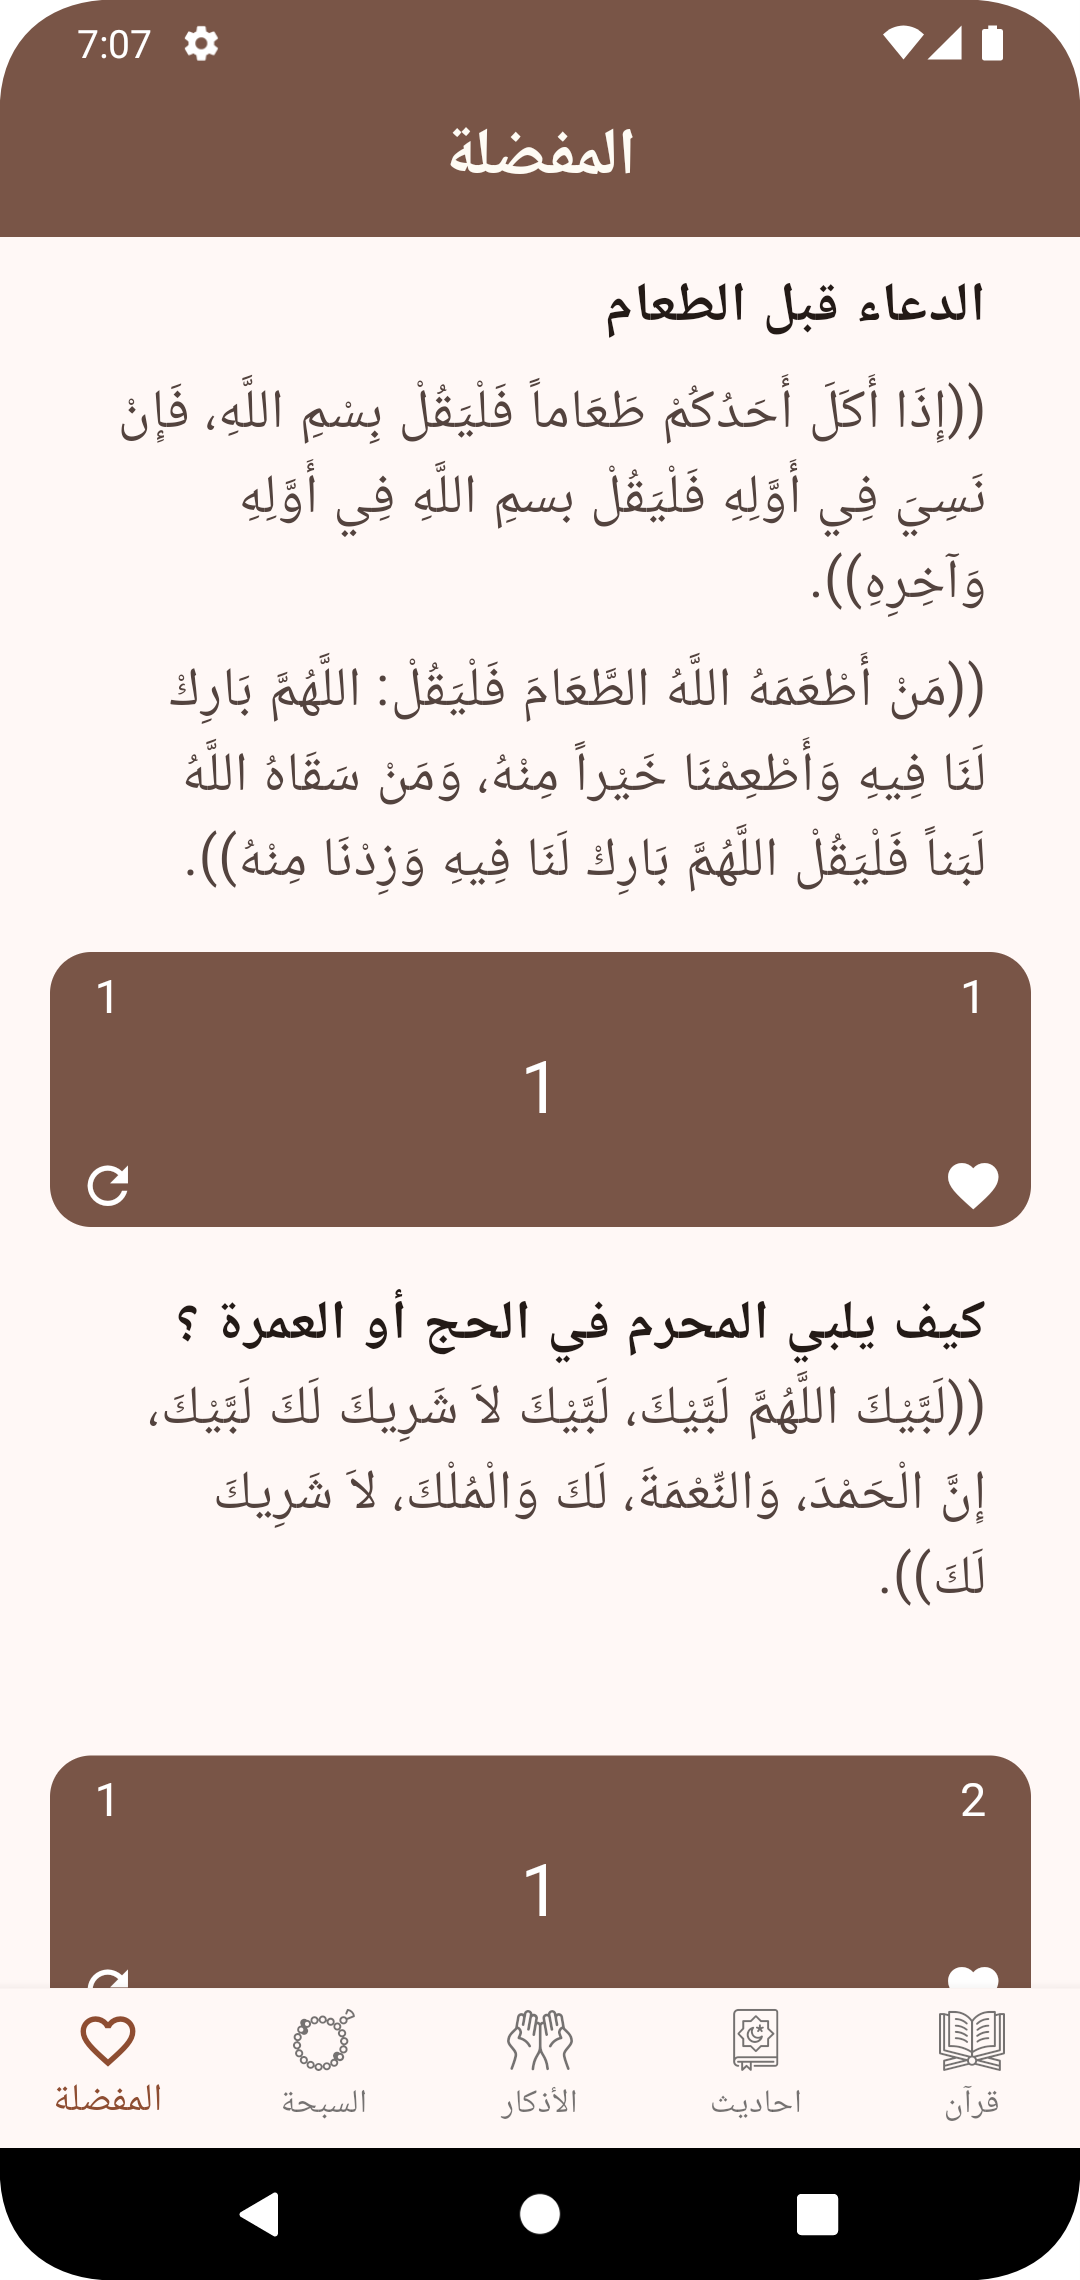
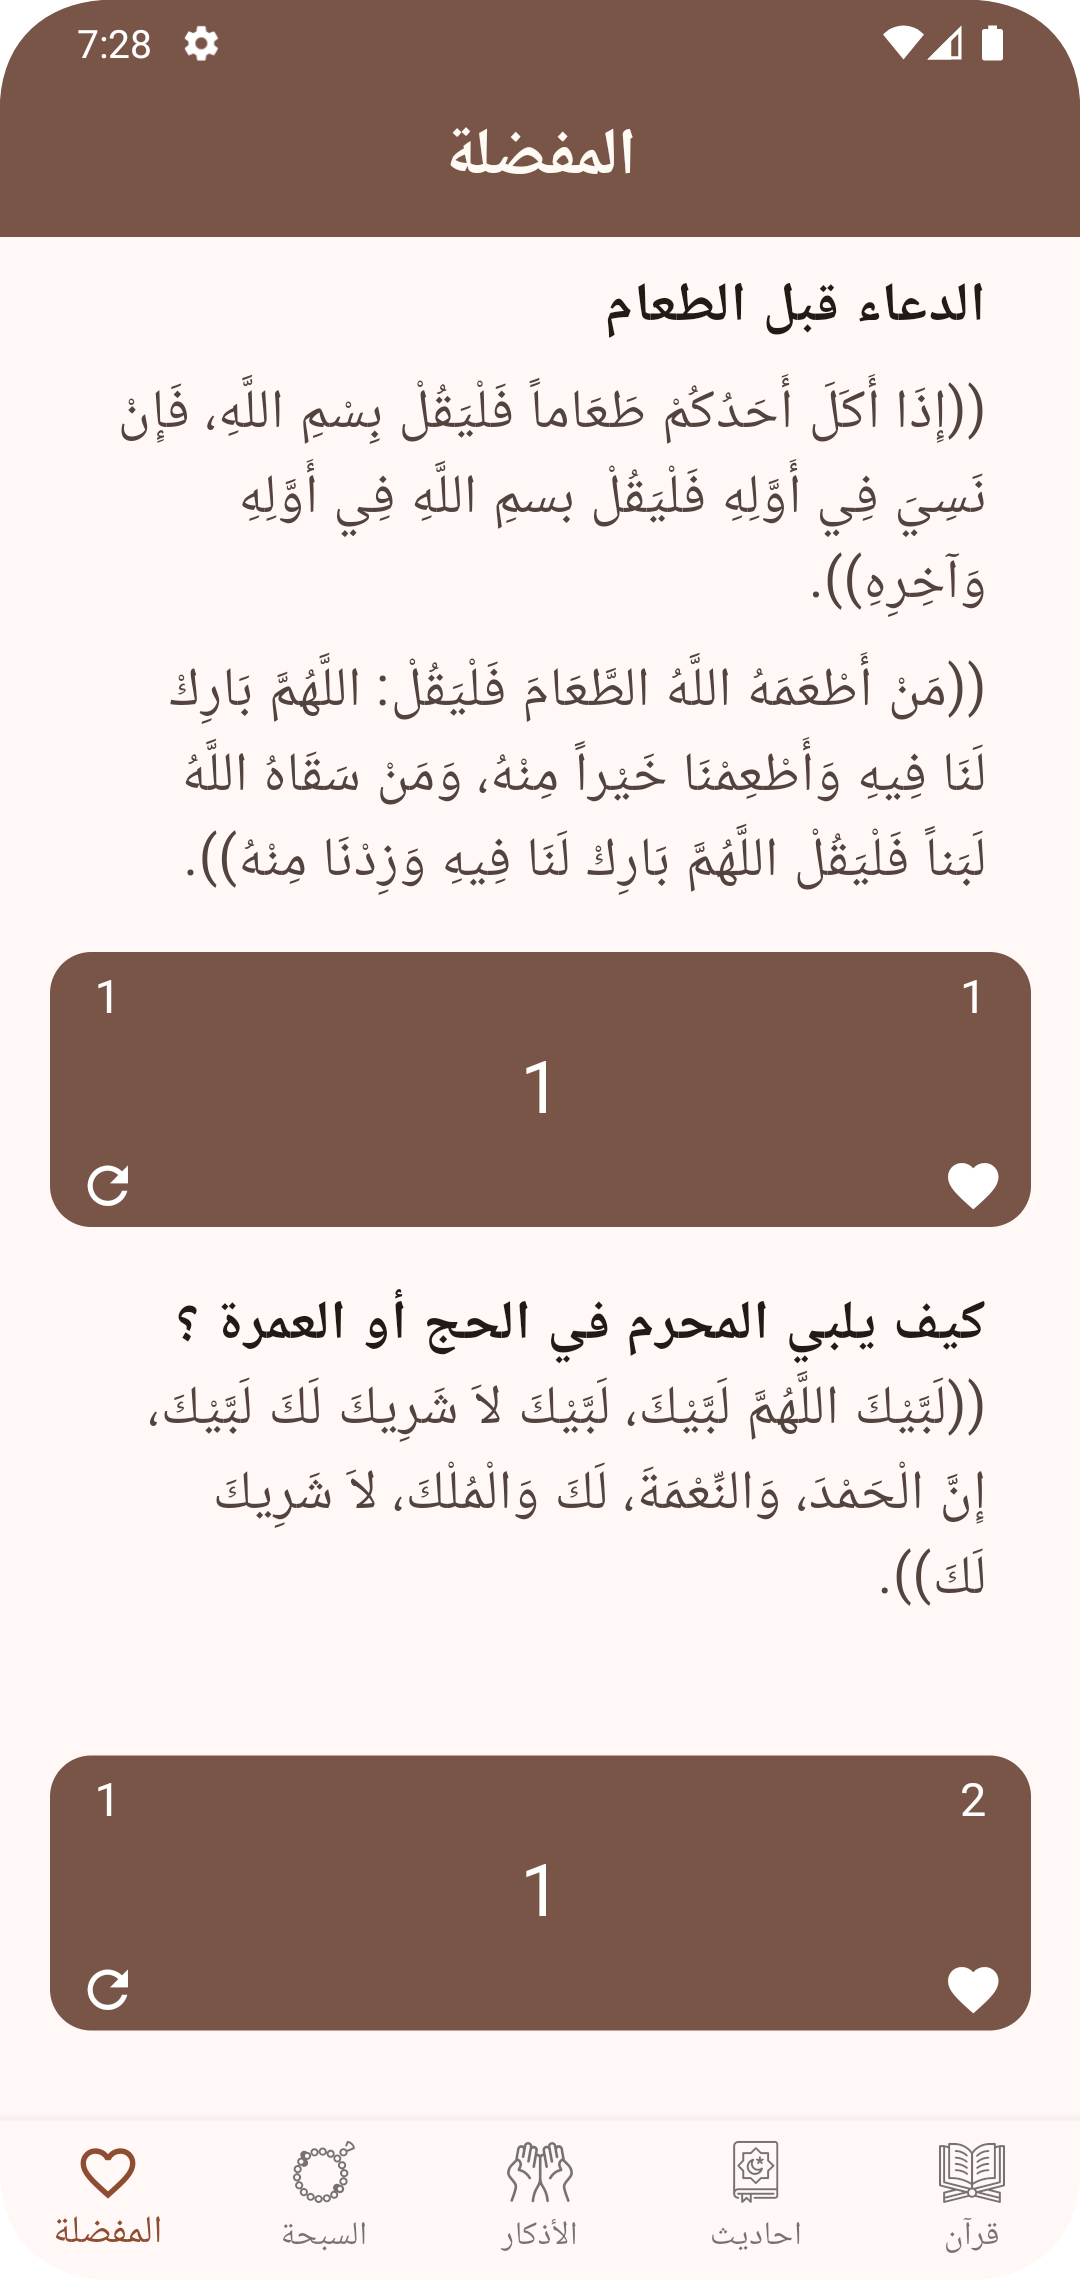
edit readme

Changed region(s): [[0.0, 0.8719, 1.0, 1.0], [0.0917, 0.0, 0.1528, 0.0311]]

diff --git a/lib/main.dart b/lib/main.dart
@@ -4,11 +4,14 @@ import 'package:azkary/core/providers/quran_provider.dart';
 import 'package:azkary/core/themes/color_app.dart';
 import 'package:azkary/features/home/splash_screen.dart';
 import 'package:flutter/material.dart';
+import 'package:flutter/services.dart';
 import 'package:flutter_localizations/flutter_localizations.dart';
 import 'package:provider/provider.dart';
 import 'core/providers/azkar_provider.dart';
 
 void main() {
+  WidgetsFlutterBinding.ensureInitialized();
+  SystemChrome.setEnabledSystemUIMode(SystemUiMode.manual, overlays: [SystemUiOverlay.top]);
   runApp(
     MultiProvider(
       providers: [

diff --git a/README.md b/README.md
@@ -1,8 +1,18 @@
 # 📖 Qurany App
 
-**Qurany** is an Islamic Flutter mobile application designed to help users stay spiritually connected through a collection of Islamic features — including **Quran**, **Azkar (remembrances)**, **Hadiths**, **Tasbeeh (prayer beads)**, and a **Favorites section** for saving personal Azkar.
+**Qurany** is an Islamic Flutter mobile application designed to help users stay spiritually connected through a collection of Islamic features — including **Quran**, **Azkar**, **Hadiths**, **Tasbeeh**, and a **Favorites section** for saving personal Azkar.
 
 ---
+
+## 📸 Screenshots
+
+| Quran                                  | Hadiths                                    | Azkar | Tasbeeh | Favorites |
+|----------------------------------------|--------------------------------------------|--------|-----------|-----------|
+| ![Quran](assets/screenshots/quran.png) | ![Hadiths](assets/screenshots/hadiths.png) | ![Azkar](assets/screenshots/azkar.png) | ![Tasbeeh](assets/screenshots/tasbeeh.png) | ![Favorites](assets/screenshots/favorites.png) |
+
+
+---
+
 
 ## 🌙 Features
 
@@ -33,16 +43,6 @@
 - **Provider** for state management
 - **SharedPreferences** for local data persistence
 - **MVVM Architecture Pattern**
-
----
-
-## 📸 Screenshots
-
-| Quran                                  | Hadiths                                    | Azkar | Tasbeeh | Favorites |
-|----------------------------------------|--------------------------------------------|--------|-----------|-----------|
-| ![Quran](assets/screenshots/quran.png) | ![Hadiths](assets/screenshots/hadiths.png) | ![Azkar](assets/screenshots/azkar.png) | ![Tasbeeh](assets/screenshots/tasbeeh.png) | ![Favorites](assets/screenshots/favorites.png) |
-
-
 
 
 
